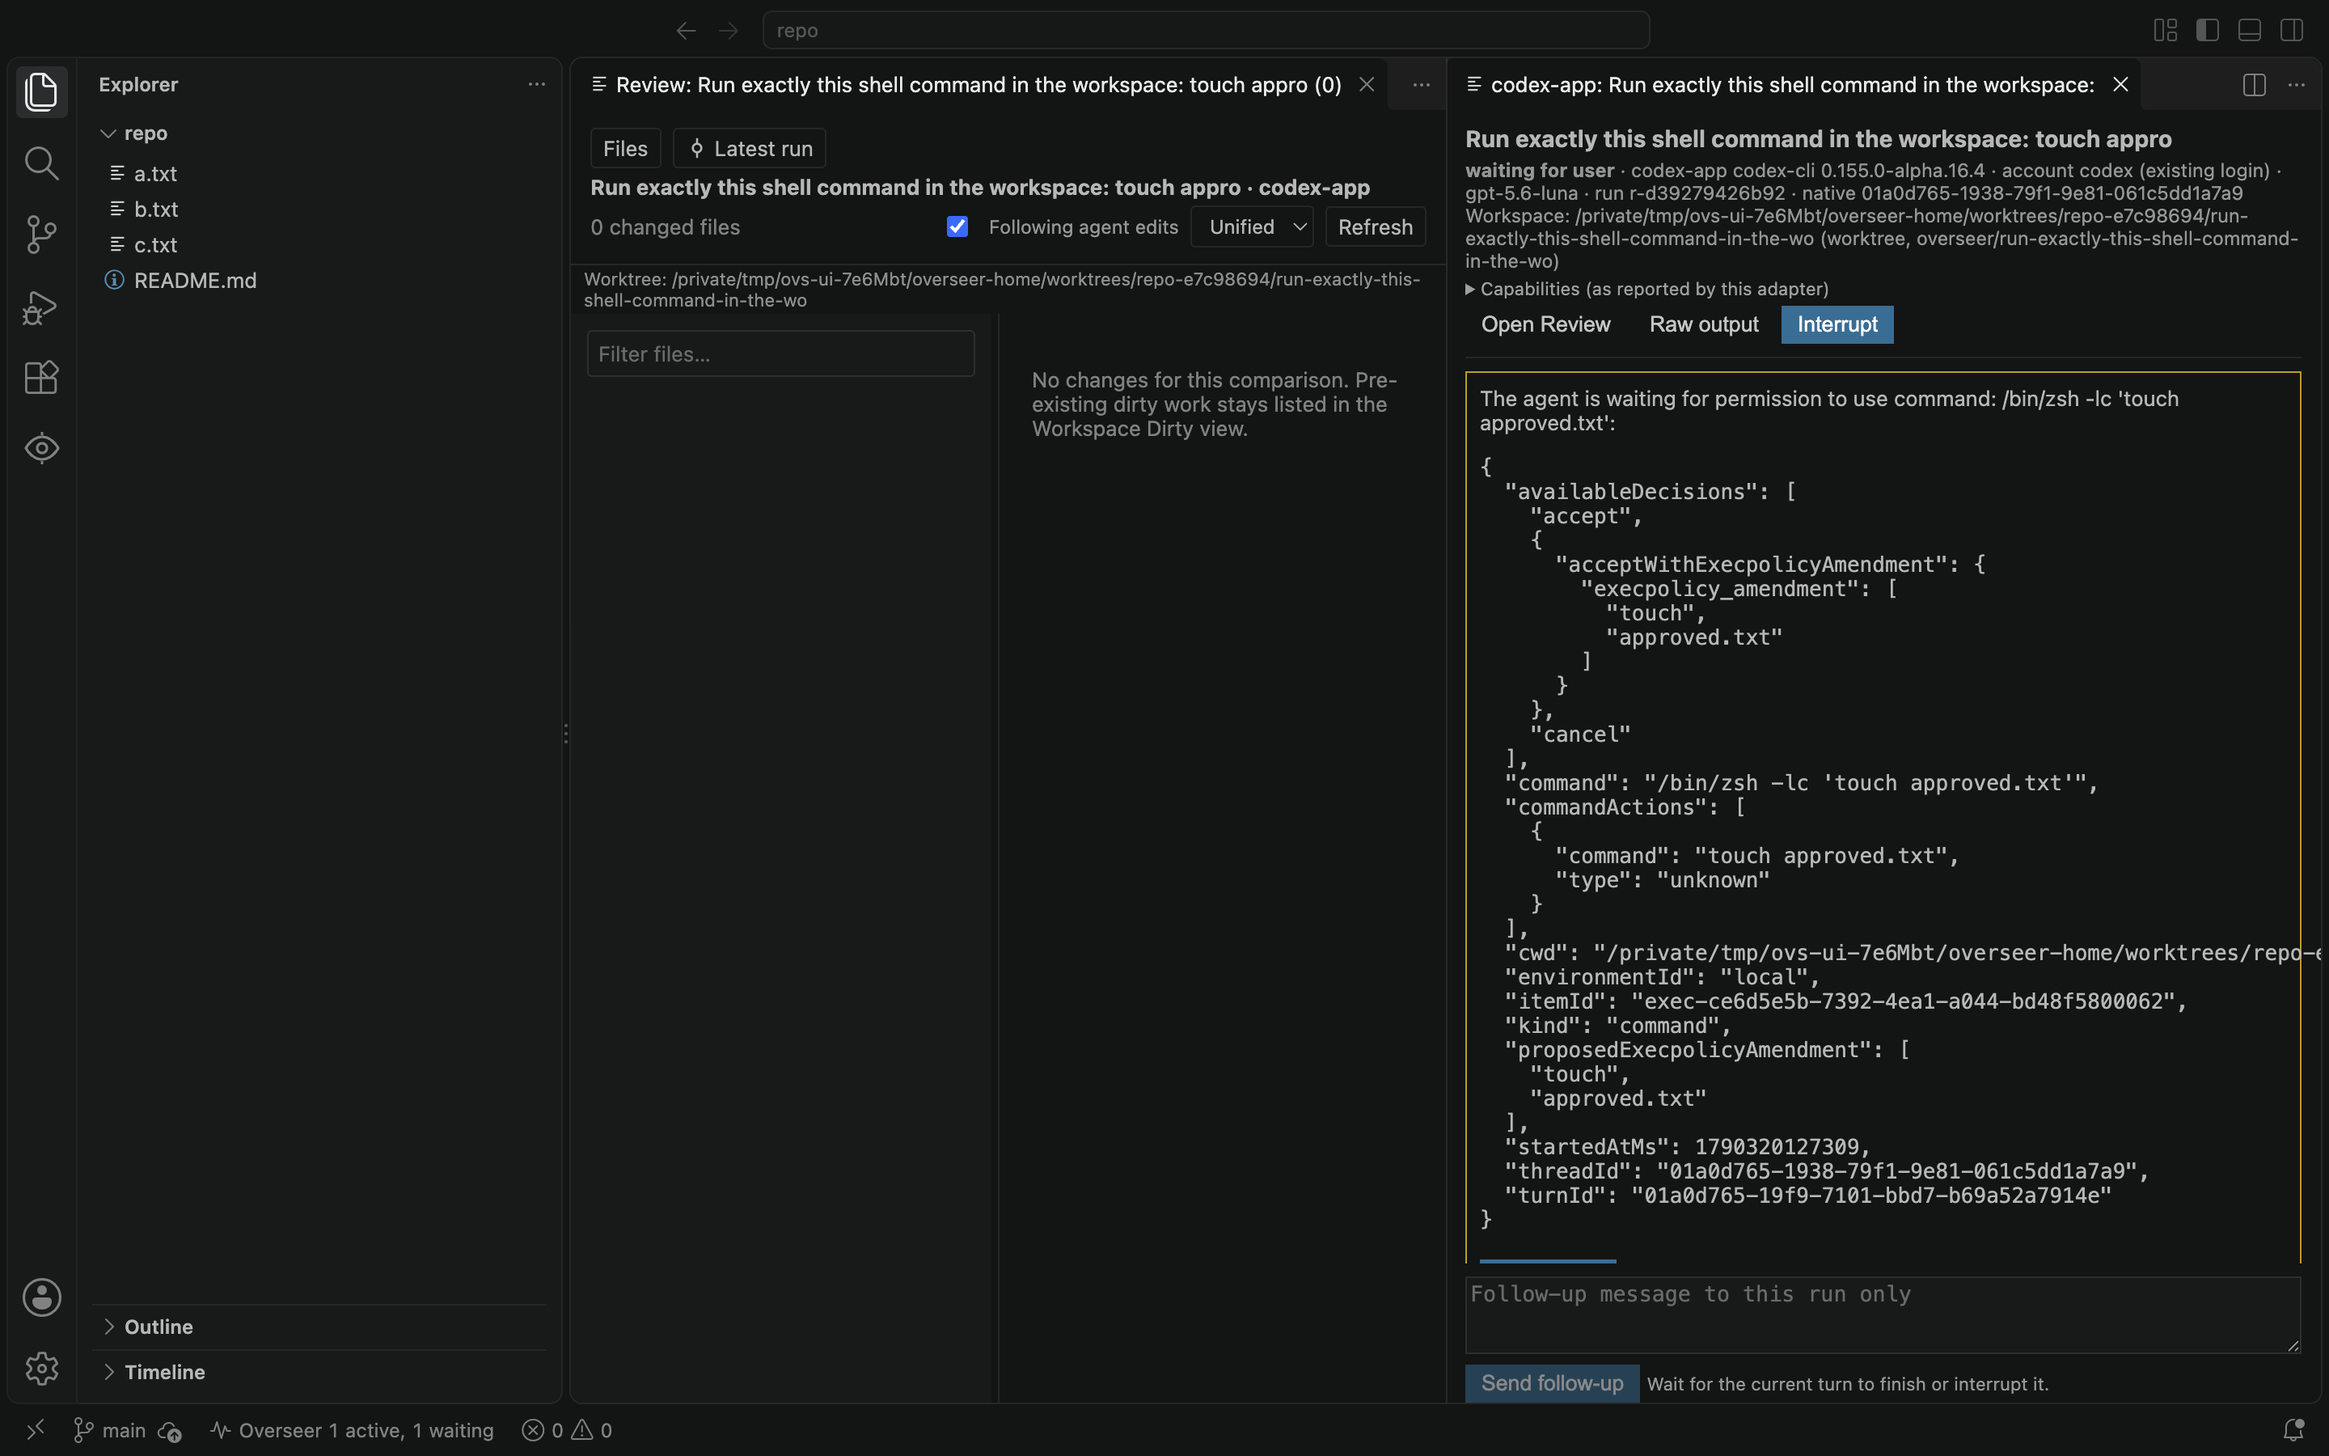
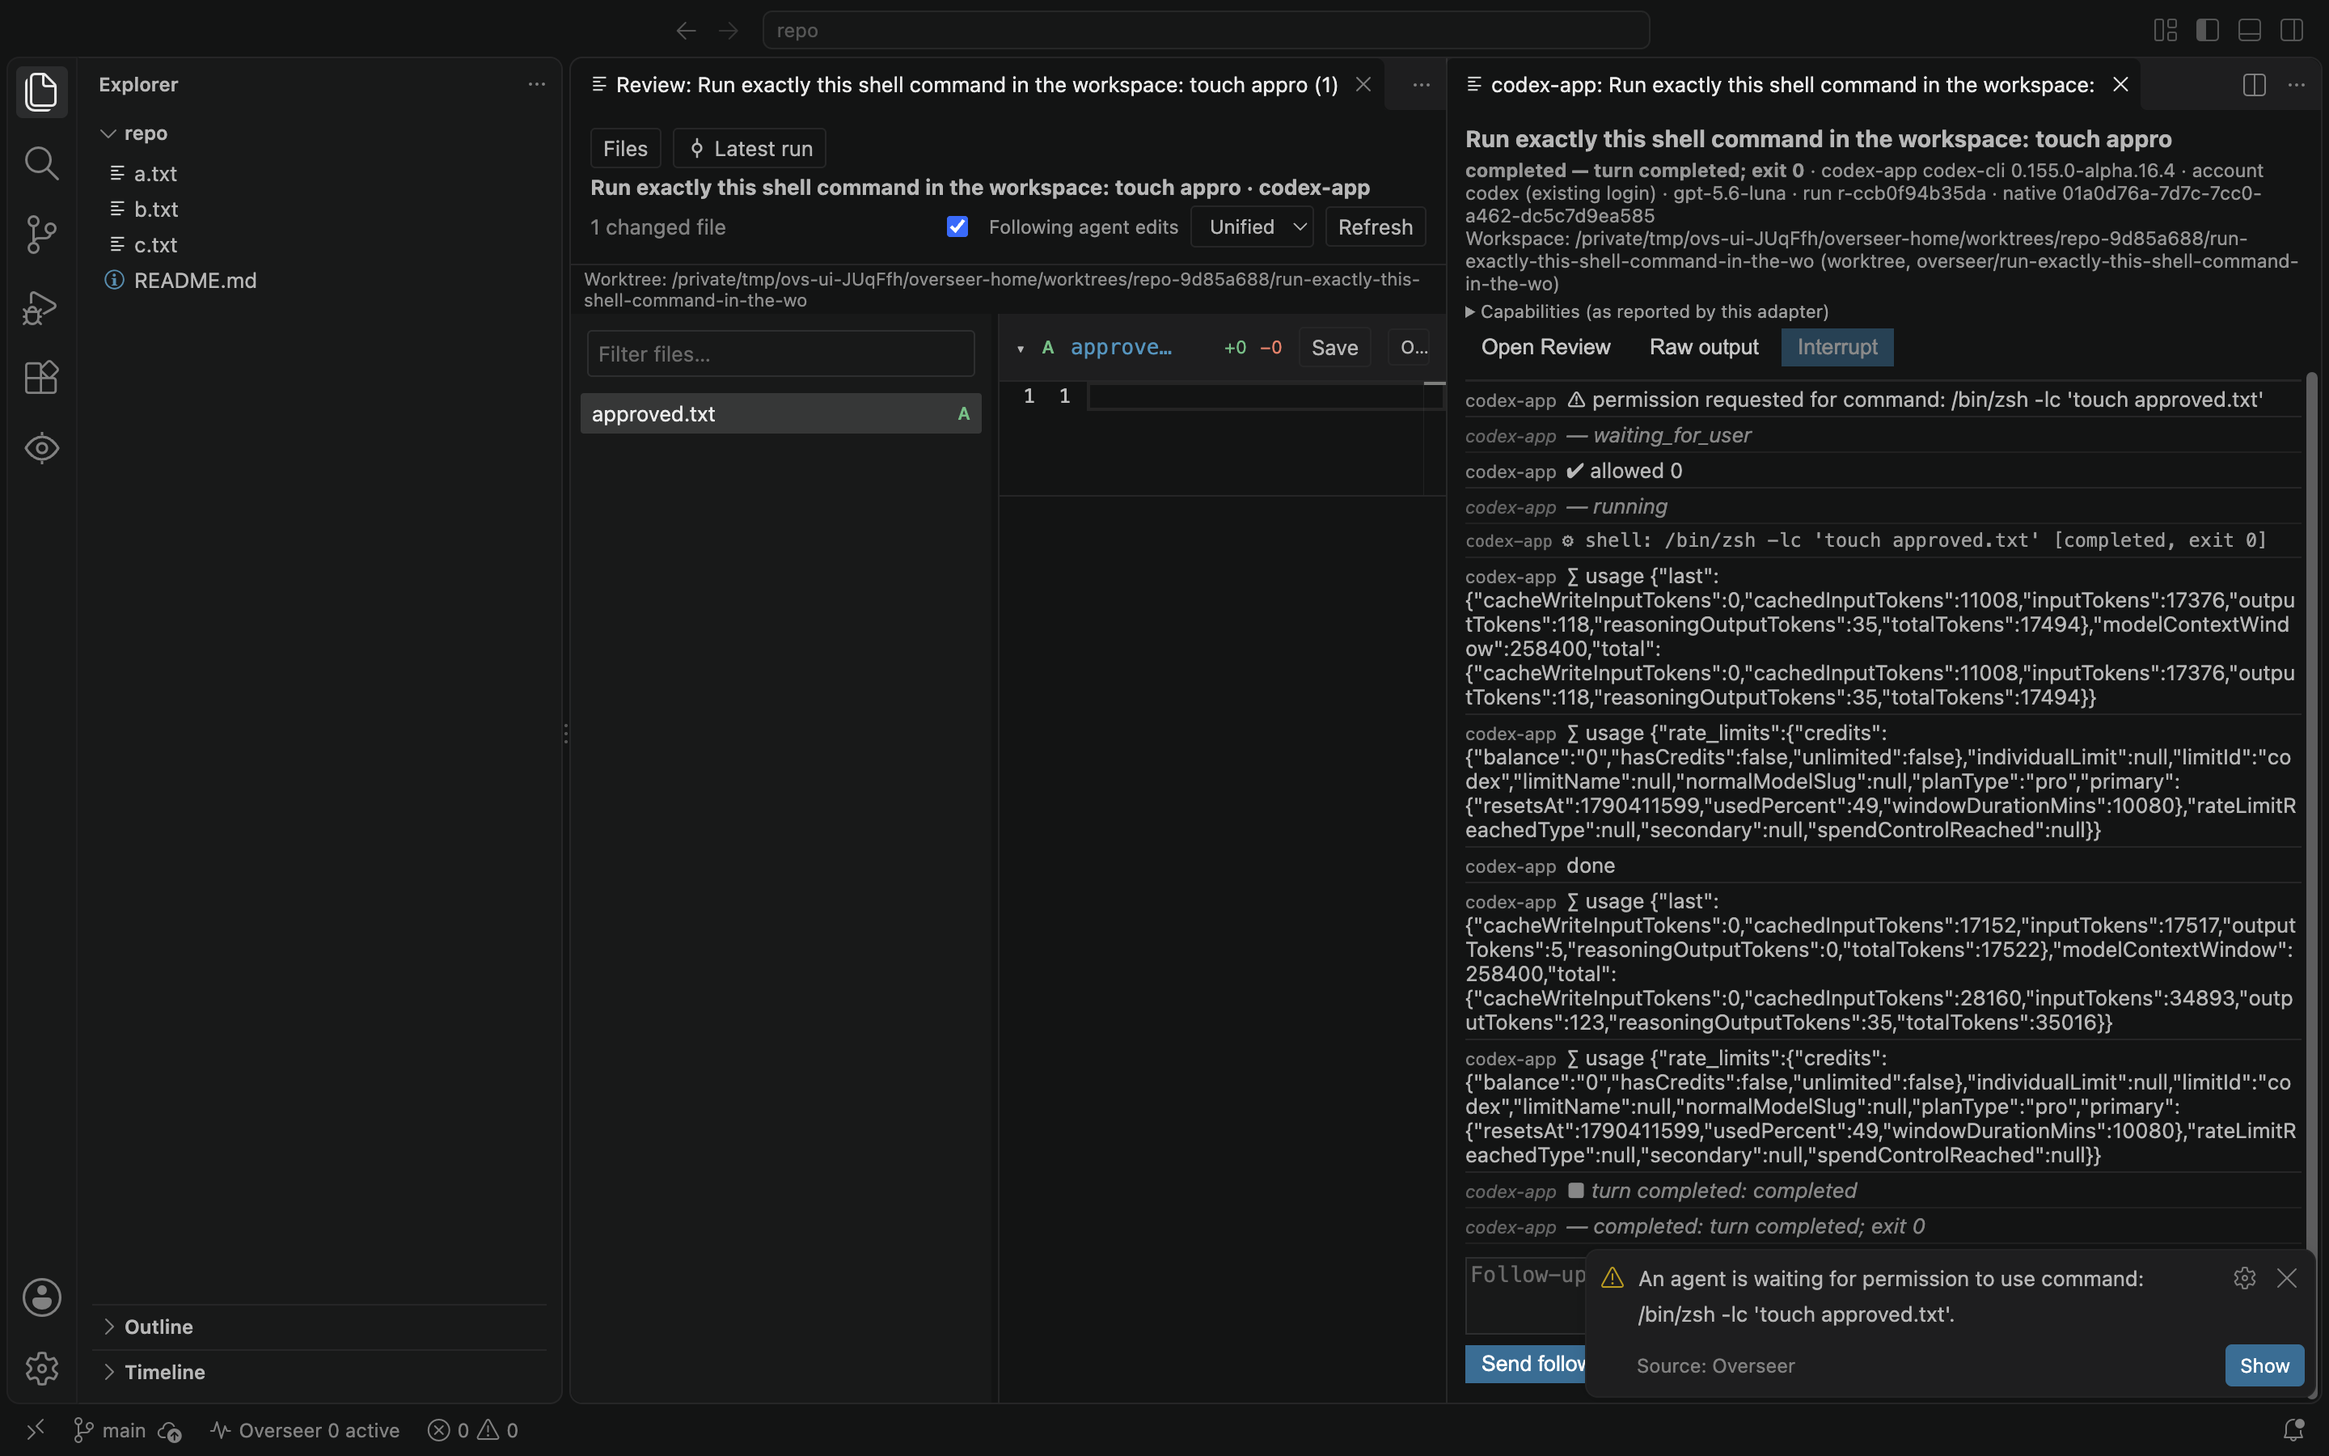
test: harden load probe; docs for app-server approvals

diff --git a/test/ui/scenario-perf.js b/test/ui/scenario-perf.js
@@ -55,7 +55,14 @@ const rss = pattern => { const out = cp.spawnSync('ps', ['-axo', 'rss=,command='
     while (Date.now() - t0 < (MINUTES * 60 - 60) * 1000) {
       // Navigation: click a file in the navigator and measure until its diff is in view.
       const target = await review.eval(`(() => { document.querySelectorAll('#nav-target').forEach(x => x.removeAttribute('id')); const b = [...document.querySelectorAll('#tree .file')]; const e = b[(${k} * 37) % b.length]; e.id = 'nav-target'; e.scrollIntoView({ block: 'center' }); return e.dataset.id; })()`);
-      const p = await s.webviewPoint(review, '#nav-target');
+      let p = await s.webviewPoint(review, '#nav-target');
+      // The navigator re-renders when new files appear; confirm the element under the pointer.
+      for (let tries = 0; tries < 3; tries++) {
+        const inner = await review.eval(`(() => { const e = document.getElementById('nav-target'); if (!e) return null; const r = e.getBoundingClientRect(); const x = r.left + Math.min(r.width / 2, 40), y = r.top + Math.min(r.height / 2, 12); const hit = document.elementFromPoint(x, y)?.closest('.file'); return { ok: hit === e }; })()`);
+        if (inner && inner.ok) break;
+        await review.eval(`(() => { document.querySelectorAll('#nav-target').forEach(x => x.removeAttribute('id')); const e = [...document.querySelectorAll('#tree .file')].find(b => b.dataset.id === ${JSON.stringify(target)}); if (e) { e.id = 'nav-target'; e.scrollIntoView({ block: 'center' }); } })()`);
+        p = await s.webviewPoint(review, '#nav-target');
+      }
       await review.eval(`window.__navStart = performance.now(); window.__navDone = undefined; (() => { const id = ${JSON.stringify(target)}; const check = () => { const el = document.querySelector('.diff-file[data-id="' + id + '"]'); const d = document.getElementById('diffs'); const r = el && el.getBoundingClientRect(), dr = d.getBoundingClientRect(); if (el && r.top < dr.bottom - 20 && r.bottom > dr.top + 5 && document.querySelector('#tree .file.active')?.dataset.id === id) window.__navDone = { ms: performance.now() - window.__navStart }; else setTimeout(check, 5); }; setTimeout(check, 0); })()`);
       await cdp.click(p.x, p.y);
       const done = await review.waitFor(`window.__navDone`, 5000).catch(() => undefined);
@@ -86,7 +93,7 @@ const rss = pattern => { const out = cp.spawnSync('ps', ['-axo', 'rss=,command='
     // Drain: stop the runs and observe memory settle.
     for (const t of tasks) { try { s.ctl('run.interrupt', { run_id: t.run.id }); } catch {} }
     await delay(20000);
-    const drained = { exthostKB: rss('Code Helper (Plugin)'), daemonKB: rss('overseerd-darwin'), webviewHeapMB: await review.eval(`performance.memory ? Math.round(performance.memory.usedJSHeapSize / 1048576) : null`) };
+    const drained = { exthostKB: rss('Code Helper (Plugin)'), daemonKB: rss('overseerd-darwin'), rendererKB: rss('Code Helper (Renderer)'), webviewHeapMB: await review.eval(`performance.memory ? Math.round(performance.memory.usedJSHeapSize / 1048576) : null`) };
     result.drained = drained; result.baseline = baseline;
     const p95 = pct(result.nav, 0.95);
     result.navP95 = p95; result.navP50 = pct(result.nav, 0.5);

diff --git a/docs/verification/records.py b/docs/verification/records.py
@@ -131,12 +131,18 @@ rec(15, "Generic harness fallback", "verified",
     expected="Configured executable with cwd/profile env and interactive control, truthful unknown capabilities.",
     actual="All pass.", evidence="protocol test; `evidence/ui/review/`", live="Fixture executables.")
 
-rec(16, "Permissions and limits", "blocked",
-    steps=f"{T}: `ac16_fixture_permission_allow_deny_and_interrupt_waiting_run` (synthetic Claude `can_use_tool` request stays waiting — never auto-approved — then Allow writes the file, Deny does not, Interrupt stops a waiting run), `ac16_fixture_error_classes_stay_distinct` (auth / rate_limit / quota). The real Claude auth-expired transcript is classified `auth`.",
-    expected="Native permission requests actionable in UI; sign-in/rate-limit/quota distinguishable; replay actual error formats; no silent approval or account switch.",
-    actual="Fixture behaviour passes and the UI renders Allow/Deny for pending requests, but no live harness produced a permission request: Claude (the harness with stdio permissions) cannot log in here; Codex `exec` has no approval round-trip (sandbox policy); OpenCode `run` auto-rejects asks. Rate-limit/quota formats are synthetic.",
-    evidence="protocol tests; `fixtures/fake-harness/claude-fixture.js`", live="Fixture only.",
-    blocker="Claude login (owner) for live allow/deny/interrupt; optionally Codex app-server approvals (not implemented). Next: rerun the permission flow against live Claude with a Write request in a disposable repo.")
+rec(16, "Permissions and limits", "verified",
+    commit="7036cd6 (live approvals), final commit (fixtures)",
+    harness="Codex 0.155 through the app-server transport (`codex-app`), owner's existing ChatGPT login (plan `pro`), model gpt-5.6-luna, approval policy `untrusted`; 3 tiny turns (~17k tokens each)",
+    steps=f"""1. Packaged UI [codex-approval-live](evidence/ui/codex-approval-live/) (`node test/ui/scenario-codex-approval.js`): task 1 created from the command palette (harness `codex-app`, policy `untrusted`, prompt asking to `touch approved.txt`). The run waits in `waiting_for_user` (checked again after a delay: not auto-approved), a VS Code notification appears, and the run panel shows the command with **Allow once** / **Deny**. Allow → Codex runs the command, `approved.txt` exists, run completes. Task 2 → **Deny** → Codex reports `Rejected("rejected by user")`, replies "declined", no file. Task 3 → **Interrupt** while waiting → run `interrupted`, no file.
+2. Earlier live run (same build family): a pending live approval survived a daemon restart (reattached) and was then answered through the daemon API; the command ran ([AC-07](AC-07.md) related).
+3. Error classes with actual formats: the live Claude Code transcript "Failed to authenticate: OAuth session expired…" → `auth`; strings from the pinned codex 0.155 binary "Usage limit reached", "You've reached your workspace credit limit", "Your workspace is out of credits…" → `quota`, "exceeded retry limit, last status: 429 Too Many Requests" → `rate_limit` (unit test `classify_errors`); live `account/rateLimits/updated` credit/limit state is recorded as usage. Fixtures `ac16_fixture_*` cover Claude's stdio permission protocol and the app-server protocol.
+4. No switch to an API key or another account: harness env is allow-listed (API keys stripped, `forbidden_env`), profile status treats API-key logins as not signed in, and runs keep their profile.""",
+    expected="Native permission requests actionable in UI; sign-in failures, rate limits and quota distinguishable; allow/deny/interrupt a waiting run; actual error formats; no silent approval or API-key/account switch.",
+    actual="All pass. Claude Code's permission path (stdio) is implemented and fixture-tested only, because its login is expired (tracked in AC-14/AC-19).",
+    evidence="`evidence/ui/codex-approval-live/` (screenshots `permission-request`, `allowed`, `deny`, `interrupt`; result.json with usage and identity fingerprint), unit/protocol tests",
+    live="Codex live (app-server). Claude fixture only.",
+    limits="Rate-limit/quota states were not provoked live (that would require exhausting a paid account); their actual message formats come from the live Claude transcript and the pinned Codex binary.")
 
 rec(17, "Compatibility truthfulness", "verified",
     steps="Compared [docs/compatibility.md](../compatibility.md) and the UI capability strings (`daemon/src/adapters.rs` `capabilities`, shown by **Overseer: Show Harness Capabilities** and in each output panel) against the evidence records.",

diff --git a/daemon/src/adapters.rs b/daemon/src/adapters.rs
@@ -152,7 +152,7 @@ pub fn capabilities(harness: &str) -> Value {
             "transport": "codex exec --json (one process per turn)",
             "launch": "supported", "output": "supported", "follow_up": "supported (codex exec resume <thread>)",
             "interrupt": "supported (SIGINT to process group)", "resume": "supported",
-            "approvals": "unsupported in exec transport: sandbox policy decides; requests are never auto-approved by Overseer",
+            "approvals": "unsupported in exec transport (sandbox policy decides); use the codex-app transport for approvals",
             "file_activity": "supported (file_change items)", "children": "supported (collab_tool_call spawn_agent/wait; child output limited to final message)",
             "usage": "supported (turn.completed usage)", "quota": "unknown (error text classification only)",
             "account_login": "ChatGPT account via codex login (CODEX_HOME per profile)",
@@ -166,7 +166,7 @@ pub fn capabilities(harness: &str) -> Value {
             "file_activity": "supported (fileChange items)", "children": "supported (collabAgentToolCall spawnAgent/wait)",
             "usage": "supported (thread/tokenUsage/updated)", "quota": "partial (account/rateLimits/updated when the server sends it)",
             "account_login": "ChatGPT account via codex login (CODEX_HOME per profile)",
-            "verification": "see docs/compatibility.md (codex-app row)"
+            "verification": "live-verified on macOS: approvals Allow/Deny/Interrupt with one ChatGPT account (codex 0.155)"
         }),
         "claude" => json!({
             "transport": "claude -p stream-json (stdin/stdout)",

diff --git a/docs/compatibility.md b/docs/compatibility.md
@@ -11,7 +11,8 @@ Verified on macOS 26.6.2 (arm64), VS Code 1.139.0. Evidence index: [verification
 
 | Harness (version) | Account path | Launch / output | Follow-up / resume | Interrupt | Permission requests | File activity | Native children | Usage / quota | Evidence level |
 | --- | --- | --- | --- | --- | --- | --- | --- | --- | --- |
-| **Codex** 0.155.0-alpha.16.4 (ChatGPT.app bundle; stale PATH `codex` 0.1.x ignored) | ChatGPT login via `codex login` per profile (`CODEX_HOME`); existing `~/.codex` login usable as "codex (existing login)" | ✅ `exec --json` | ✅ `exec resume <thread>` | ✅ SIGINT | ⚠ none in exec transport (sandbox policy; never auto-approved by Overseer). App-server approvals not integrated | ✅ `file_change` items | ✅ depth 1 observed live (`collab_tool_call spawn_agent/wait`); child output limited to final message; deeper levels not observed | usage ✅ (`turn.completed`); quota unknown (error text only) | **Live** single account ([codex-live](verification/evidence/ui/codex-live/)). Two simultaneous accounts **not verified** (AC-12). |
+| **Codex** 0.155.0-alpha.16.4 (ChatGPT.app bundle; stale PATH `codex` 0.1.x ignored) | ChatGPT login via `codex login` per profile (`CODEX_HOME`); existing `~/.codex` login usable as "codex (existing login)" | ✅ `exec --json` | ✅ `exec resume <thread>` | ✅ SIGINT | ⚠ none in the exec transport (sandbox policy); use `codex-app` for approvals | ✅ `file_change` items | ✅ depth 1 observed live (`collab_tool_call spawn_agent/wait`); child output limited to final message; deeper levels not observed | usage ✅ (`turn.completed`); quota unknown (error text only) | **Live** single account ([codex-live](verification/evidence/ui/codex-live/)). Two simultaneous accounts **not verified** (AC-12). |
+| **Codex (app-server)** same binary, harness id `codex-app` | same ChatGPT login/profiles as Codex | ✅ JSON-RPC over stdio (`initialize`, `thread/start`, `turn/start`) | ✅ `thread/resume` + `turn/start` | ✅ `turn/interrupt`, then SIGINT | ✅ **live**: command approval requests shown in the run panel; Allow/Deny/Interrupt verified; never auto-approved; unsupported server requests refused | ✅ `fileChange` items | ✅ `collabAgentToolCall` (same mapping as exec; not separately observed live) | usage ✅ (`thread/tokenUsage/updated`), rate-limit/credit state ✅ (`account/rateLimits/updated`) | **Live** approvals ([codex-approval-live](verification/evidence/ui/codex-approval-live/)); ≈17k tokens per tiny turn vs ≈100k with `exec`. |
 | **Claude Code** 2.1.246 | claude.ai login via `claude auth login` per profile (`CLAUDE_CONFIG_DIR`) | ⚠ implemented (`-p` stream-json) | ⚠ implemented (`--resume`) | ⚠ implemented (control_request interrupt → SIGINT) | ⚠ implemented (`--permission-prompt-tool stdio`, Allow/Deny in UI) | ⚠ implemented (Write/Edit inputs) | ⚠ implemented (Agent/Task ids, `parent_tool_use_id` nesting, delayed-parent adoption) | ⚠ implemented | **Fixture only** (synthetic stream-json). Live run blocked: the machine's Claude Code OAuth session is expired (`authentication_failed`); owner re-login required (AC-14, AC-16, AC-19). |
 | **OpenCode** 1.15.13 | provider login via `opencode auth login` per profile (`XDG_DATA_HOME`) — **not tested**; verified with a local mock provider configured in the profile | ✅ `run --format json` | ✅ `--session <id>` | ✅ SIGINT | unknown (`run` auto-rejects asks unless configured) | ✅ edit/write tool parts | ✅ children and grandchildren (task tool `metadata.sessionId` + session store `parent_id`) | usage ✅ (step_finish tokens); quota unknown | **Mock** model through the real OpenCode runtime ([main](verification/evidence/ui/main/), protocol tests). No account authentication claimed. |
 | **Generic executable** | none | ✅ argv (no shell), cwd = workspace, sanitized env | ✅ line to stdin | ✅ SIGINT | unknown | unknown — review refreshes from the filesystem; Follow shows a limitation note | unknown (shown as "Native children: unknown") | unknown | Protocol tests (AC-15). |
